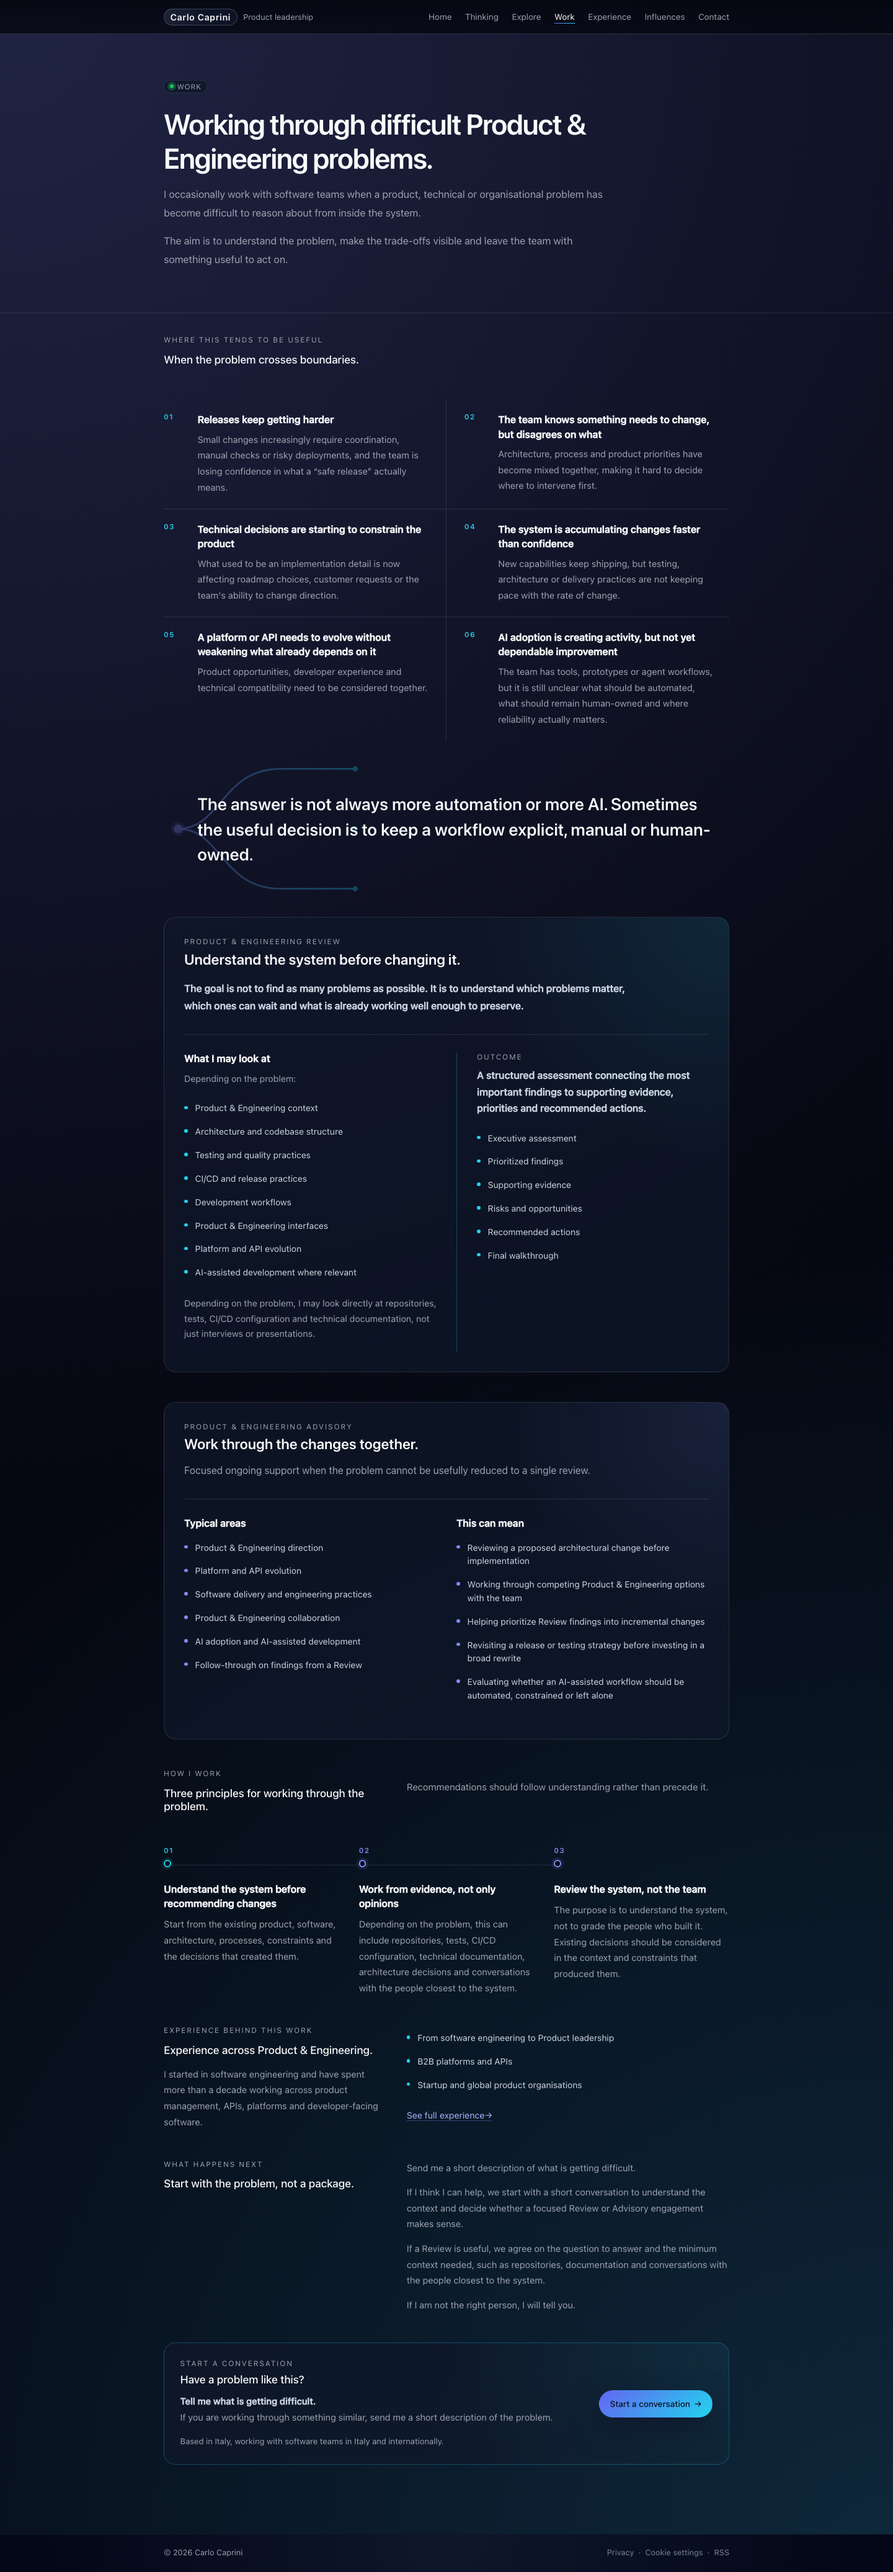
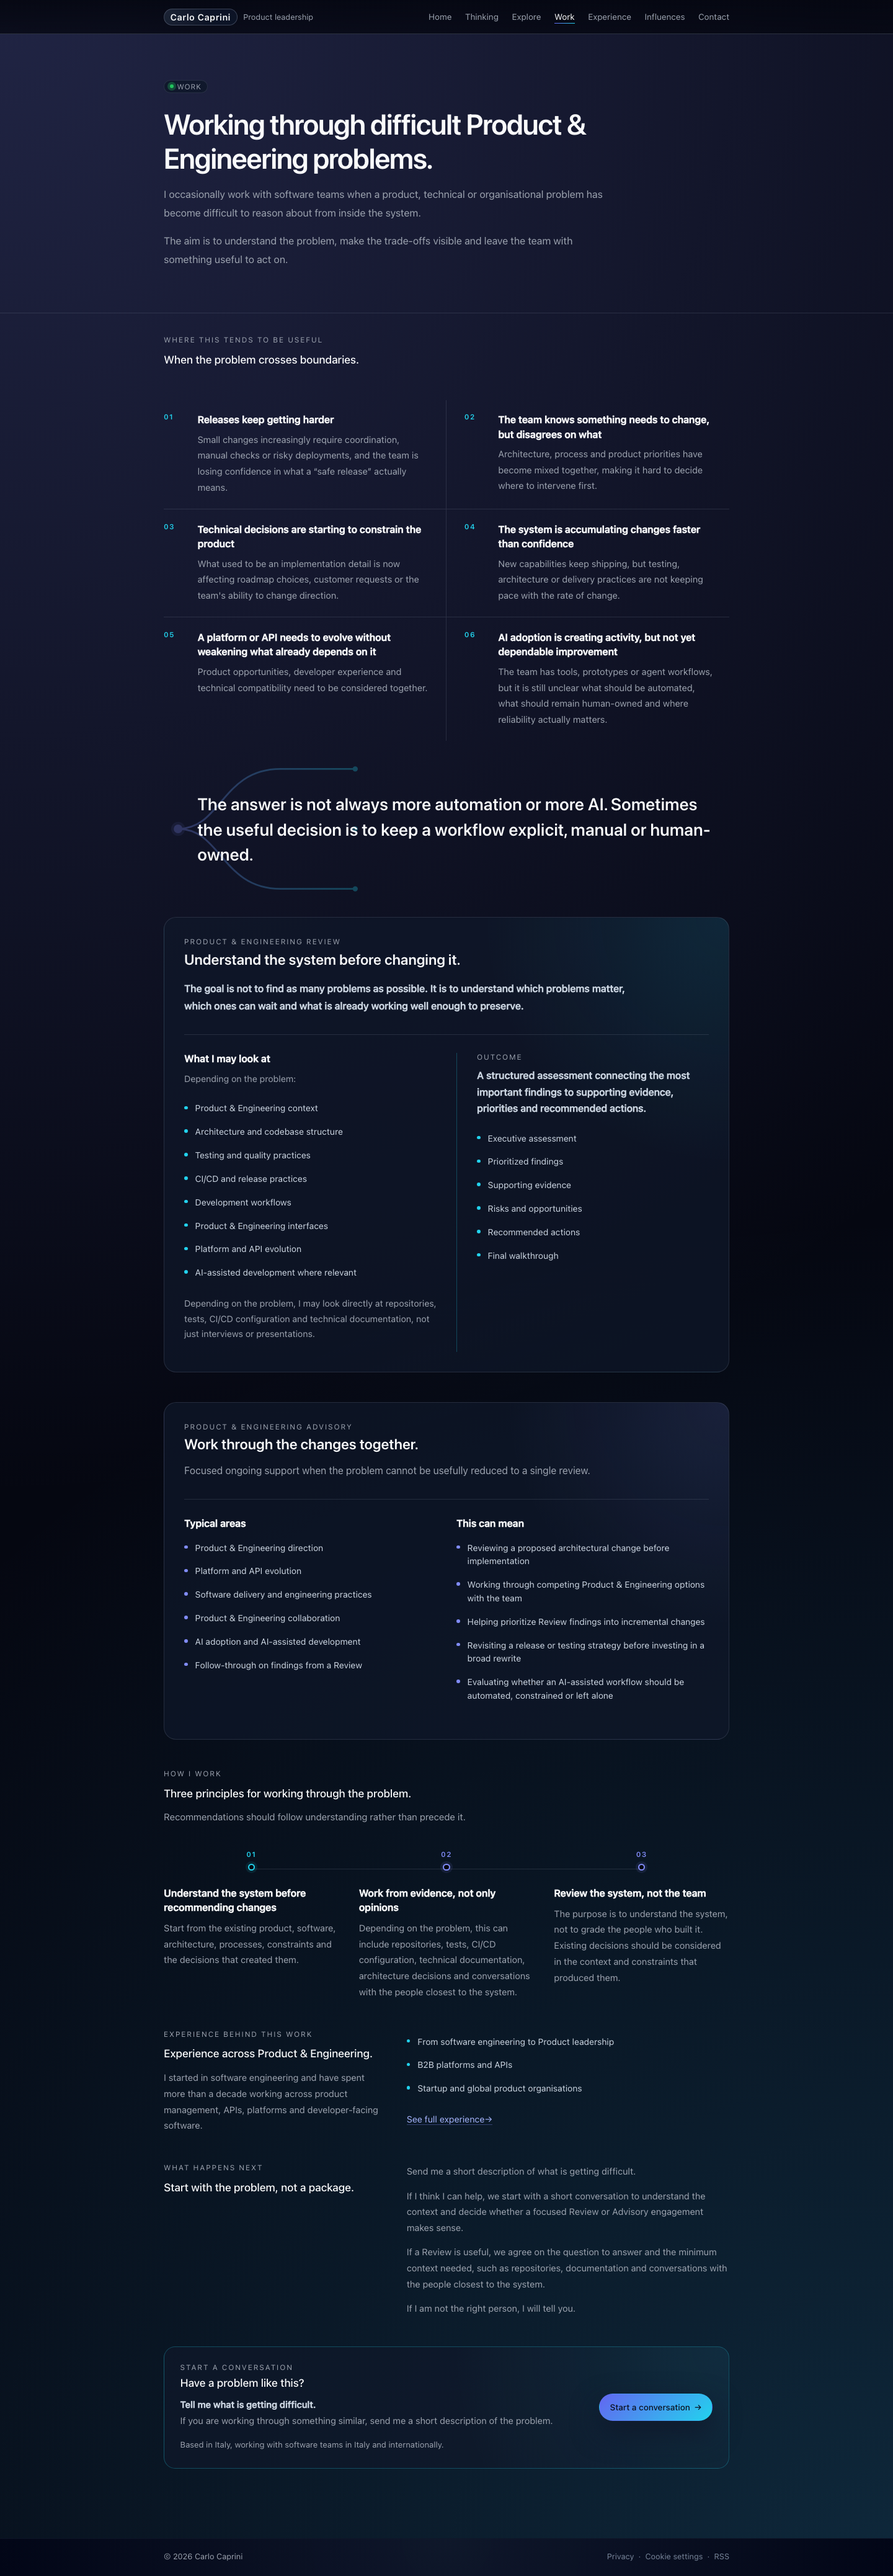
fix: clarify connected flow alignment across breakpoints

diff --git a/_layouts/work.html b/_layouts/work.html
@@ -119,13 +119,13 @@ layout: default
 
   <section class="section work-principles-section">
     <div class="container">
-      <div class="work-section-intro work-reveal" data-work-reveal>
-        <div>
-          <div class="section-eyebrow">{{ page.principles.eyebrow }}</div>
-          <h2 class="section-title">{{ page.principles.title }}</h2>
+        <div class="work-section-intro work-section-intro--flow work-reveal" data-work-reveal>
+          <div>
+            <div class="section-eyebrow">{{ page.principles.eyebrow }}</div>
+            <h2 class="section-title">{{ page.principles.title }}</h2>
+            <p class="section-description">{{ page.principles.intro }}</p>
+          </div>
         </div>
-        <p class="section-description">{{ page.principles.intro }}</p>
-      </div>
         <ol class="step-flow work-reveal" data-work-reveal>
           {% for item in page.principles.items %}
             <li class="step-flow__item">

diff --git a/_includes/styles/responsive.css b/_includes/styles/responsive.css
@@ -197,25 +197,31 @@
 
   .step-flow__item {
     display: grid;
-    grid-template-columns: 2.5rem minmax(0, 1fr);
+    grid-template-columns: 3.5rem minmax(0, 1fr);
     gap: 0.85rem;
   }
 
   .step-flow__marker {
+    grid-template-columns: auto 0.75rem;
+    grid-template-rows: 1rem;
+    gap: 0.45rem;
+    align-items: center;
     align-self: stretch;
+    justify-items: start;
     margin-bottom: 0;
+    text-align: left;
   }
 
   .step-flow__marker::after {
-    top: 2.25rem;
+    top: 1.5rem;
     bottom: -1.6rem;
-    left: 0.32rem;
+    left: calc(100% - 0.39rem);
     width: 1px;
     height: auto;
   }
 
   .step-flow__content {
-    padding-top: 0.05rem;
+    padding-top: 0;
   }
 
   .work-contact-panel .button-primary {

diff --git a/_includes/styles/foundations.css b/_includes/styles/foundations.css
@@ -396,8 +396,10 @@ main {
   display: grid;
   grid-template-rows: auto 1rem;
   gap: 0.55rem;
+  justify-items: center;
   margin-bottom: 1.25rem;
   color: var(--accent-indigo);
+  text-align: center;
 }
 
 .step-flow__index {
@@ -421,7 +423,7 @@ main {
   position: absolute;
   z-index: 0;
   top: calc(100% - 0.5rem);
-  left: 0.72rem;
+  left: 50%;
   width: calc(100% + 2rem);
   height: 1px;
   background: var(--color-line);

diff --git a/_includes/styles/work.css b/_includes/styles/work.css
@@ -14,6 +14,18 @@
   max-width: 35rem;
 }
 
+.work-section-intro--flow {
+  display: block;
+}
+
+.work-section-intro--flow > div {
+  max-width: 38rem;
+}
+
+.work-section-intro--flow .section-description {
+  margin-top: 0.75rem;
+}
+
 .work-situation-list {
   display: grid;
   grid-template-columns: repeat(2, minmax(0, 1fr));
